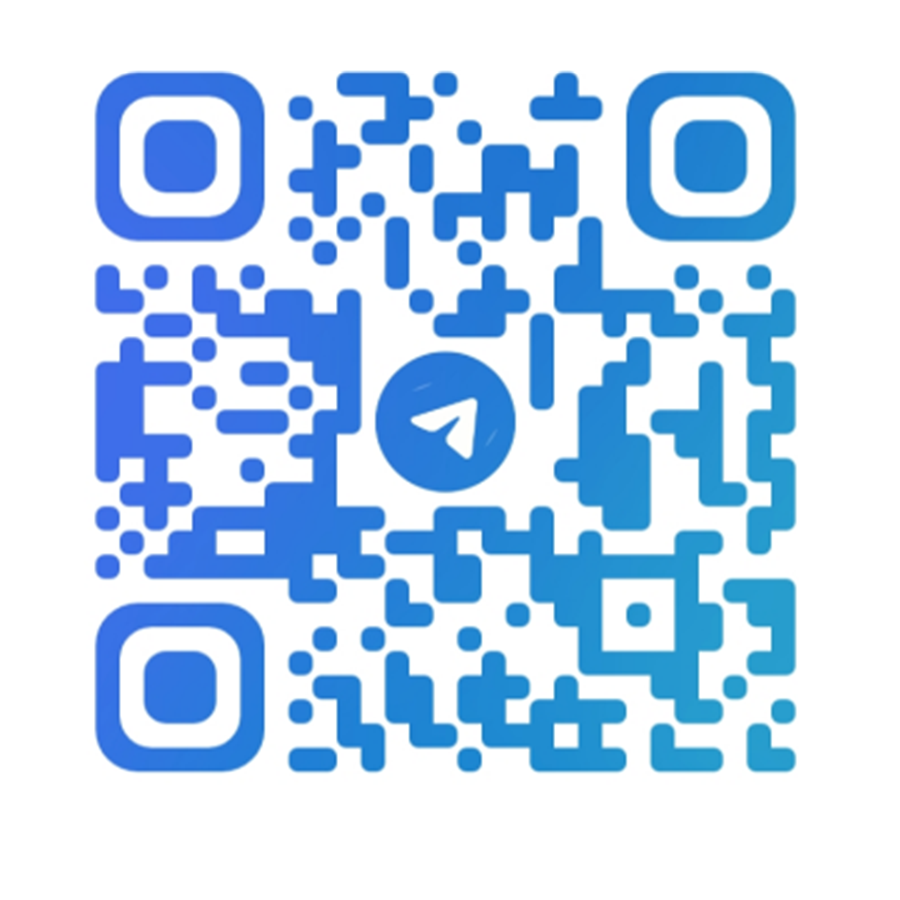
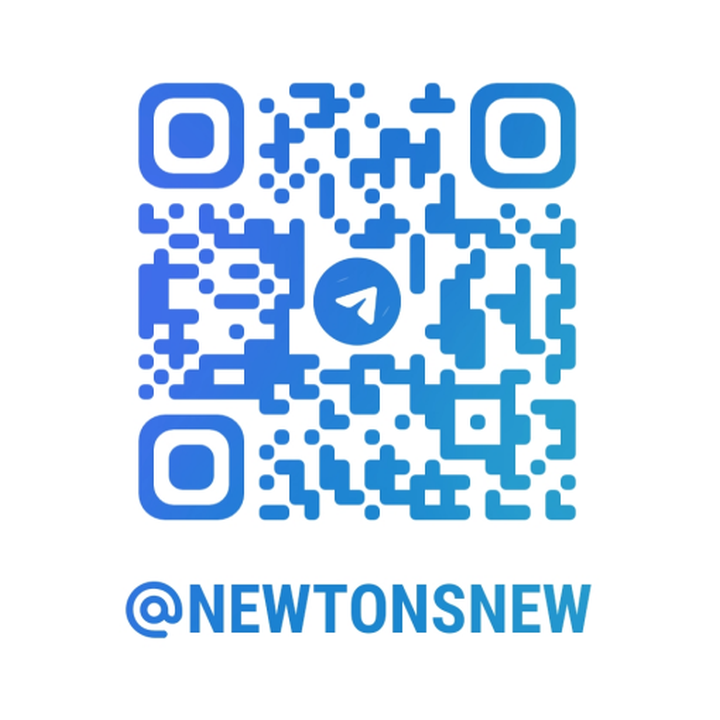
Crop and align customer support QR cards

diff --git a/index.html b/index.html
@@ -630,7 +630,7 @@ h3 { font-size: 1rem; font-weight: 600; letter-spacing: -0.01em; }
   display: flex;
   flex-direction: column;
   align-items: center;
-  justify-content: flex-start;
+  justify-content: center;
   transition: transform .3s var(--ease), box-shadow .3s var(--ease);
 }
 .support-card:hover {
@@ -647,7 +647,7 @@ h3 { font-size: 1rem; font-weight: 600; letter-spacing: -0.01em; }
 }
 .support-card h3 {
   font-size: 15px;
-  margin: auto 0 5px;
+  margin: 0 0 5px;
 }
 .support-card p {
   color: var(--ink-soft);
@@ -949,17 +949,17 @@ section[id]{scroll-margin-top:88px}:focus-visible{outline:3px solid var(--brand)
       </div>
       <div class="support-grid" aria-label="Customer support QR codes">
         <article class="support-card">
-          <img src="/assets/contact/telegram-newtonsnew.png" alt="Telegram support QR code for @NEWTONSNEW" width="430" height="604" loading="lazy">
+          <img src="/assets/contact/telegram-newtonsnew.png" alt="Telegram support QR code for @NEWTONSNEW" width="720" height="720" loading="lazy">
           <h3>Telegram</h3>
           <p>@NEWTONSNEW</p>
         </article>
         <article class="support-card">
-          <img src="/assets/contact/whatsapp-business.png" alt="WhatsApp Business support QR code" width="307" height="337" loading="lazy">
+          <img src="/assets/contact/whatsapp-business.png" alt="WhatsApp Business support QR code" width="720" height="720" loading="lazy">
           <h3>WhatsApp Business</h3>
           <p>Scan to message support</p>
         </article>
         <article class="support-card">
-          <img src="/assets/contact/wechat-support.png" alt="WeChat support QR code" width="382" height="383" loading="lazy">
+          <img src="/assets/contact/wechat-support.png" alt="WeChat support QR code" width="720" height="720" loading="lazy">
           <h3>WeChat</h3>
           <p>Scan to add customer service</p>
         </article>
@@ -989,5 +989,6 @@ section[id]{scroll-margin-top:88px}:focus-visible{outline:3px solid var(--brand)
 
 
 <footer class="hwt-footer"><div class="hwt-footer-inner"><div><a href="/" class="hwt-logo hwt-full-brand" aria-label="HaoWordTool home" data-i18n-aria-label="homepageLive.t111"><img src="/assets/haowordtool-brand.png" alt="HaoWordTool — Words unlock more possibilities" width="1254" height="1254"></a><p> <span data-i18n="homepageLive.t89">Better Products, Smarter AI Tools.</span> </p></div><nav aria-label="Footer" data-i18n-aria-label="homepageLive.t112"><a href="/account.html"> <span data-i18n="homepageLive.t90">Customer center</span> </a><a href="/en/affiliate-products.html#shopify-store"> <span data-i18n="homepageLive.t91">Products</span> </a><a href="/ai-tools.html"> <span data-i18n="homepageLive.t92">AI Tools</span> </a><a href="/checkout.html"> <span data-i18n="homepageLive.t93">Checkout</span> </a><a href="/en/about.html"> <span data-i18n="homepageLive.t94">About</span> </a><a href="/en/contact.html"> <span data-i18n="homepageLive.t95">Contact</span> </a><a href="/en/privacy.html"> <span data-i18n="homepageLive.t96">Privacy</span> </a><a href="/en/terms.html"> <span data-i18n="homepageLive.t97">Terms</span> </a><a href="/?lang=zh-CN" lang="zh-CN" data-home-language="zh-CN">中文</a></nav><p class="hwt-disclosure"> <span data-i18n="homepageLive.t98">Some links on this site are affiliate links. We may earn a commission at no extra cost to you. Product guide previews are labeled; final prices and terms are confirmed by each seller.</span> </p><small>© 2026 HaoWordTool</small></div></footer><script>if(new URLSearchParams(location.search).get('search')==='1'){document.querySelector('[data-open-search]')?.click()}</script></body></html>
+
 
 
